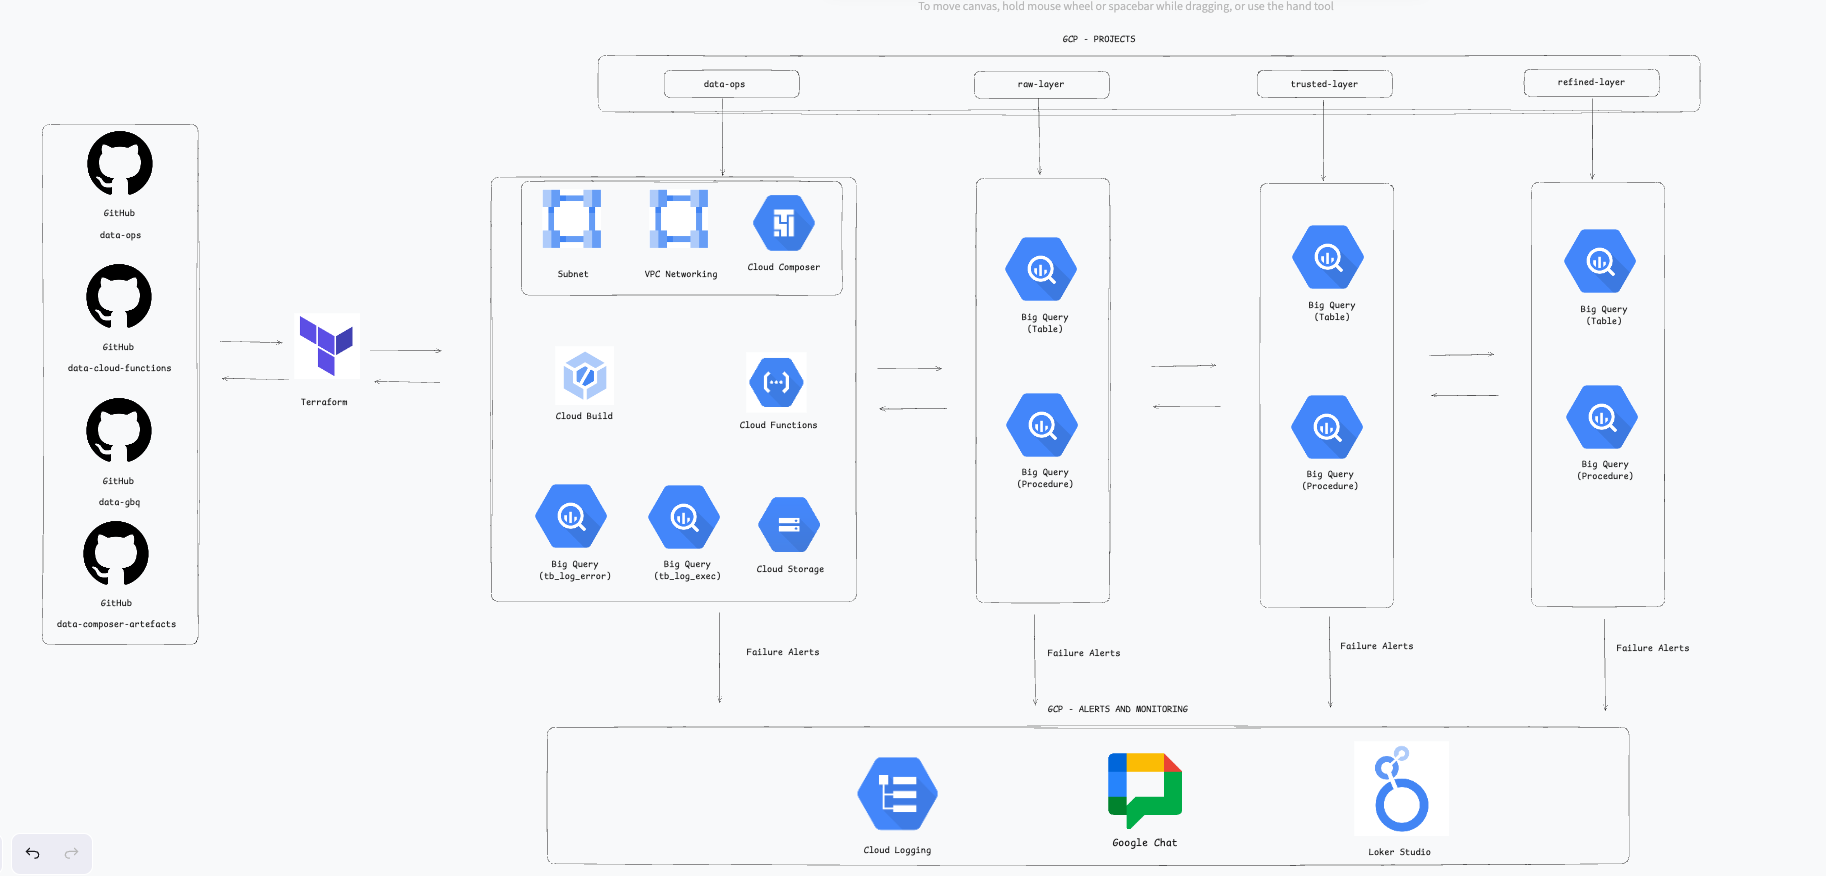
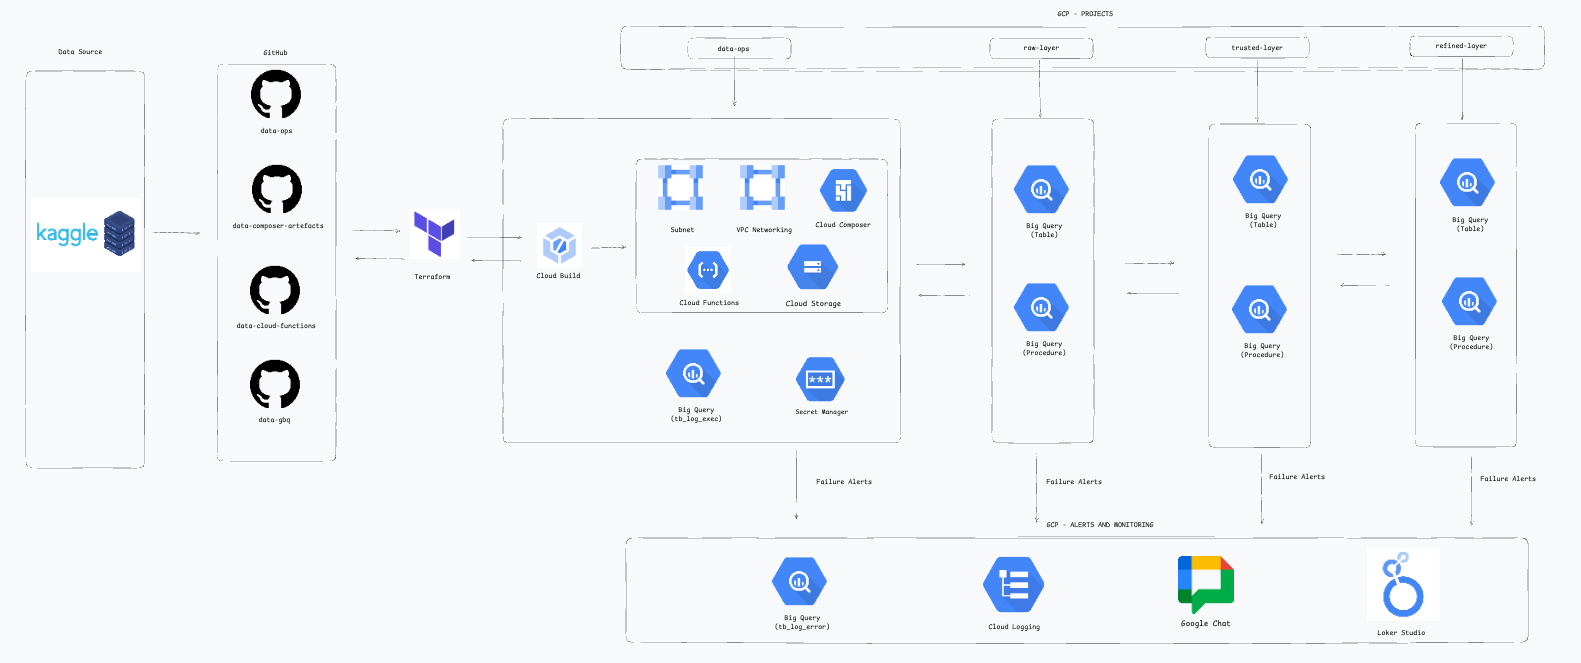
doc: Atualizacao da arquitetura.

diff --git a/README.md b/README.md
@@ -1,7 +1,9 @@
 # data-ops
+
 gcp dataops para o desafio de eng de dados da acerto.
 
 # Data Architecture
-[Abra no Excalidraw](https://excalidraw.com/#json=QLBkzjLXcmGpjrVewTrwP,AZqKHqQSst1c6h4zFMNJ5g)
+
+[Abra no Excalidraw](https://excalidraw.com/#json=YlapinIHTCmxO0UgA-EGB,VeAg3VX8p1rmIw5yvnHD8A)
 
 ![Diagrama](./Data-Architecture.png)
